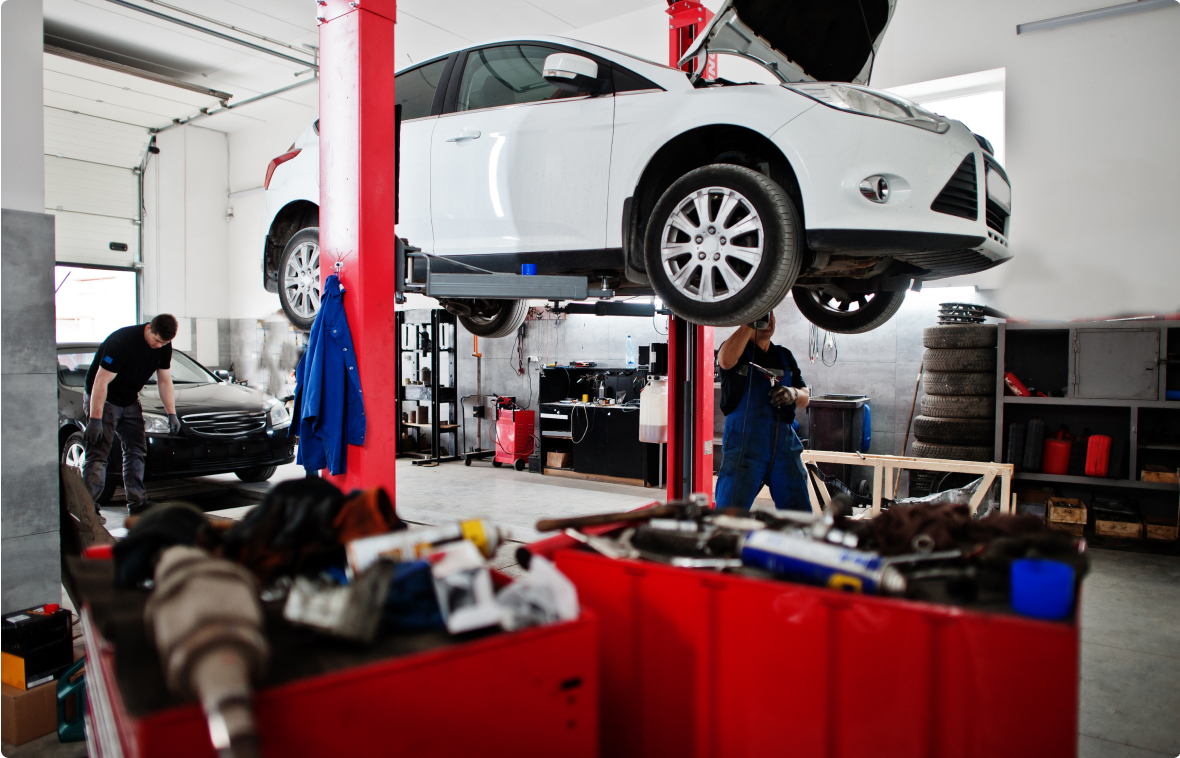
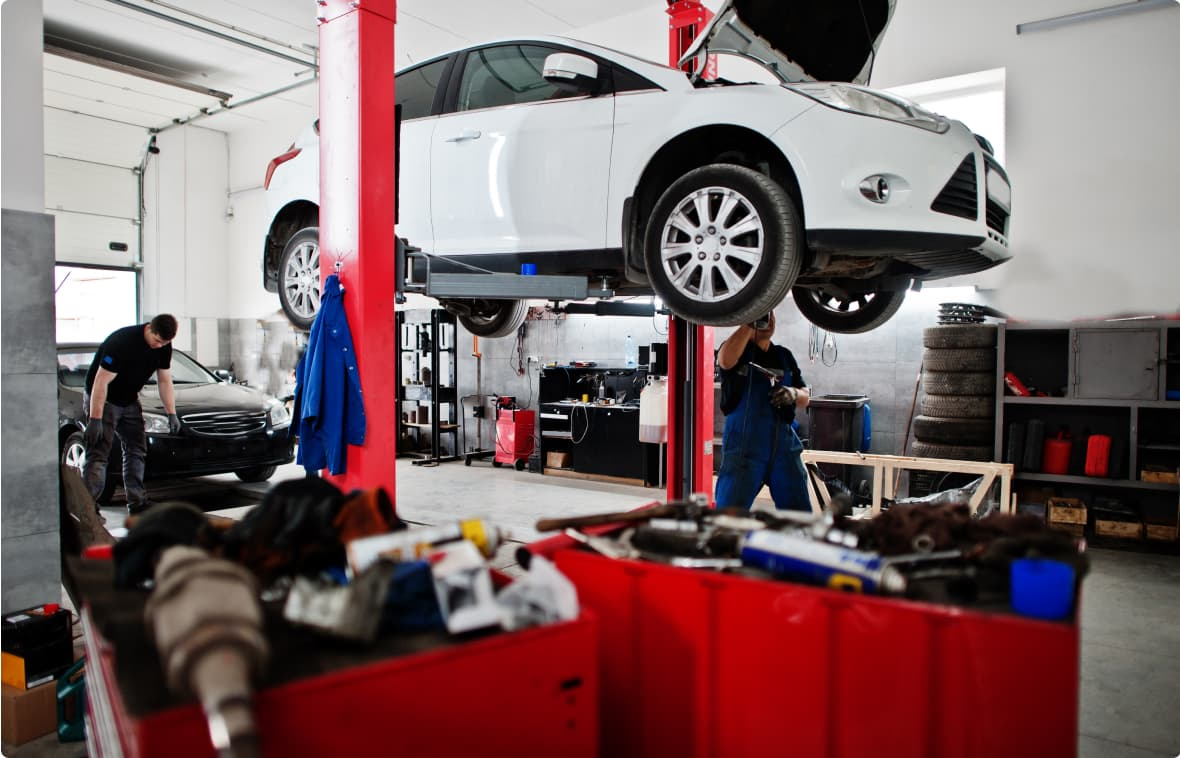
fix photo

diff --git a/src/sass/layout/_consultation.scss b/src/sass/layout/_consultation.scss
@@ -10,7 +10,9 @@
   font-weight: 500;
   margin-bottom: 8px;
 }
+/* Общие стили кнопки */
 .consultation__btn {
+  color: var(--black-100);
   margin-left: auto;
   margin-right: auto;
   margin-bottom: 40px;
@@ -18,11 +20,67 @@
   padding: 8px;
   align-items: center;
   gap: 16px;
-  border-bottom: 1px solid var(--black-100);
   font-size: 16px;
   font-weight: 500;
   cursor: pointer;
+  // border-bottom: 1px solid var(--black-100);
+  overflow: hidden;
+  position: relative;
 }
+
+/* Анимация на мобильных устройствах */
+@media (max-width: 768px) {
+  .consultation__btn::after {
+    content: '';
+    position: absolute;
+    width: 100%;
+    height: 2px;
+    background-color: var(--black-100);
+    bottom: 0;
+    left: -100%;
+    animation: run-animation 2s linear infinite;
+  }
+
+  @keyframes run-animation {
+    0% {
+      left: -100%;
+    }
+    100% {
+      left: 100%;
+    }
+  }
+}
+
+/* Анимация при ховере на компьютере */
+@media (min-width: 769px) {
+  .consultation__btn {
+    border-bottom: 2px solid var(--black-100);
+    &:hover {
+      border-bottom: none;
+    }
+  }
+
+  .consultation__btn:hover::after {
+    content: '';
+    position: absolute;
+    width: 100%;
+    height: 2px;
+    background-color: var(--black-100);
+    bottom: 0;
+    left: -100%;
+    animation: run-animation-hover 2s linear infinite;
+  }
+
+  @keyframes run-animation-hover {
+    0% {
+      left: -100%;
+    }
+    100% {
+      left: 100%;
+    }
+  }
+}
+
 .consultation-tel {
   border-radius: 4px;
   background: var(--black-90);

diff --git a/src/sass/layout/_hero.scss b/src/sass/layout/_hero.scss
@@ -25,7 +25,7 @@
 
 @media screen and (min-width: 768px) and(max-width: 1199px) {
   .hero-container {
-    background: url('../images/hero/close-up-on-car-care-process-tablet.png');
+    background: url('../images/hero/close-up-on-car-care-process-tablet.jpg');
     background-repeat: no-repeat;
     background-size: cover;
   }
@@ -35,7 +35,7 @@
   screen and (min-width: 768px) and(max-width: 1199px) and (min-resolution: 192dpi),
   screen and (min-width: 768px) and (max-width: 1199px) and (min-resolution: 2dppx) {
   .hero-container {
-    background: url('../images/hero/close-up-on-car-care-process-tablet@2x.png');
+    background: url('../images/hero/close-up-on-car-care-process-tablet@2x.jpg');
     background-position: center;
     background-repeat: no-repeat;
     background-size: cover;
@@ -44,7 +44,7 @@
 
 @media screen and (min-width: 1200px) {
   .hero-section {
-    background: url('../images/hero/close-up-on-car-care-process-desktop.png');
+    background: url('../images/hero/close-up-on-car-care-process-desktop.jpg');
     background-position: center;
     background-repeat: no-repeat;
     background-size: cover;
@@ -55,7 +55,7 @@
   screen and (min-width: 1200px) and (min-resolution: 192dpi),
   screen and (min-width: 1200px) and (min-resolution: 2dppx) {
   .hero-section {
-    background: url('../images/hero/close-up-on-car-care-process-desktop@2x.png');
+    background: url('../images/hero/close-up-on-car-care-process-desktop@2x.jpg');
     background-position: center;
     background-repeat: no-repeat;
     background-size: cover;

diff --git a/src/partials/hero.html b/src/partials/hero.html
@@ -1,10 +1,10 @@
 <section class="hero-section">
     <picture>
         <source srcset="
-        ./images/hero/close-up-on-car-care-process-Home-mobile.png    1x,
-        ./images/hero/close-up-on-car-care-process-Home-mobile@2x.png 2x
+        ./images/hero/close-up-on-car-care-process-Home-mobile.jpg    1x,
+        ./images/hero/close-up-on-car-care-process-Home-mobile@2x.jpg 2x
       " />
-        <img class="hero__photo" src="./images/hero/close-up-on-car-care-process-Home-mobile.png" alt="blue car" />
+        <img class="hero__photo" src="./images/hero/close-up-on-car-care-process-Home-mobile.jpg" alt="blue car" />
     </picture>
     <div class="hero-container container">
         <h1 class="hero__title">

diff --git a/src/index.html b/src/index.html
@@ -25,7 +25,7 @@
   <include src="./partials/about.html"></include>
   <include src="./partials/services.html"></include>
   <include src="./partials/partners.html"></include>
-  <!-- <include src="./partials/gallery.html"></include> -->
+  <include src="./partials/gallery.html"></include>
   <include src="./partials/STO-services.html"></include>
   <include src="./partials/consultation.html"></include>
 

diff --git a/src/sass/layout/_gallery.scss b/src/sass/layout/_gallery.scss
@@ -82,7 +82,7 @@
   z-index: 1;
   cursor: pointer;
   border: none;
-  margin-left: 60px;
+  margin-left: 80px;
 }
 .slick-prev {
   position: absolute;
@@ -92,7 +92,7 @@
   z-index: 1;
   cursor: pointer;
   border: none;
-  margin-right: 40px;
+  margin-right: 70px;
 }
 
 .slick-prev svg {

diff --git a/src/sass/utils/_variables.scss b/src/sass/utils/_variables.scss
@@ -2,7 +2,7 @@
   --gold: #ffd700;
   --gold-80: #ffcc33;
   --white: #ffffff;
-  --black-90: #030303;
+  --black-90: #0a0a0a;
   --black-100: #000000;
   --black-gold: #151206;
   --red: #ff290a;
